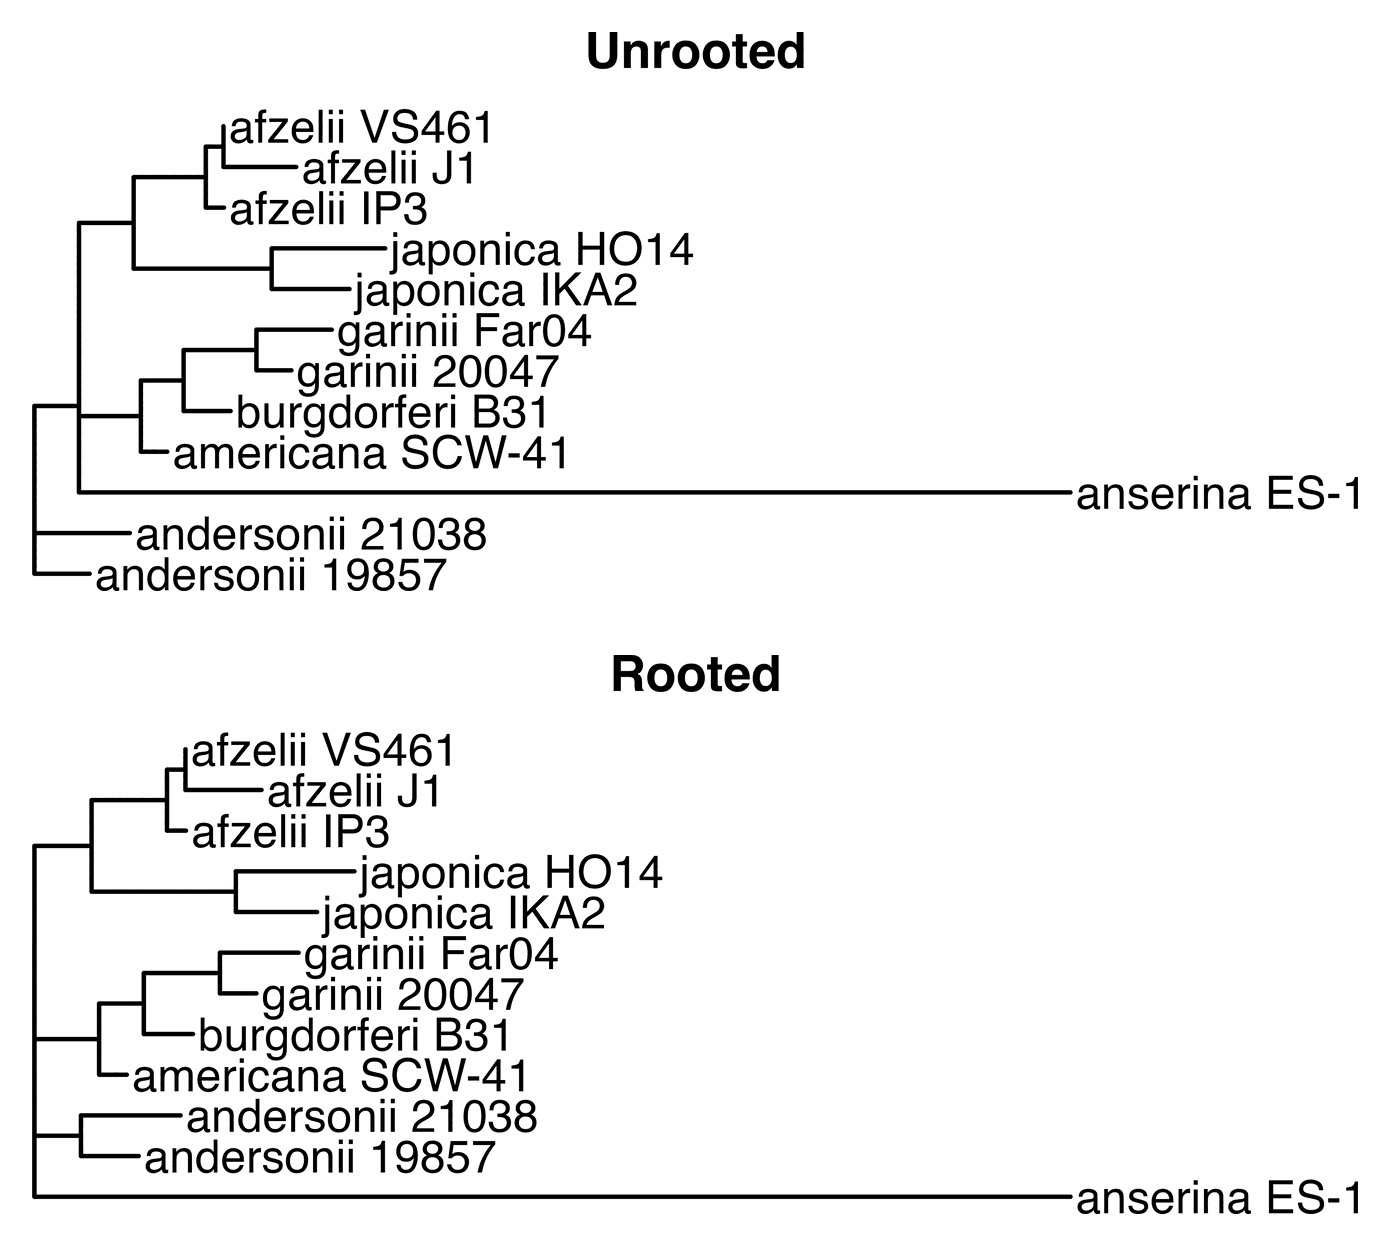
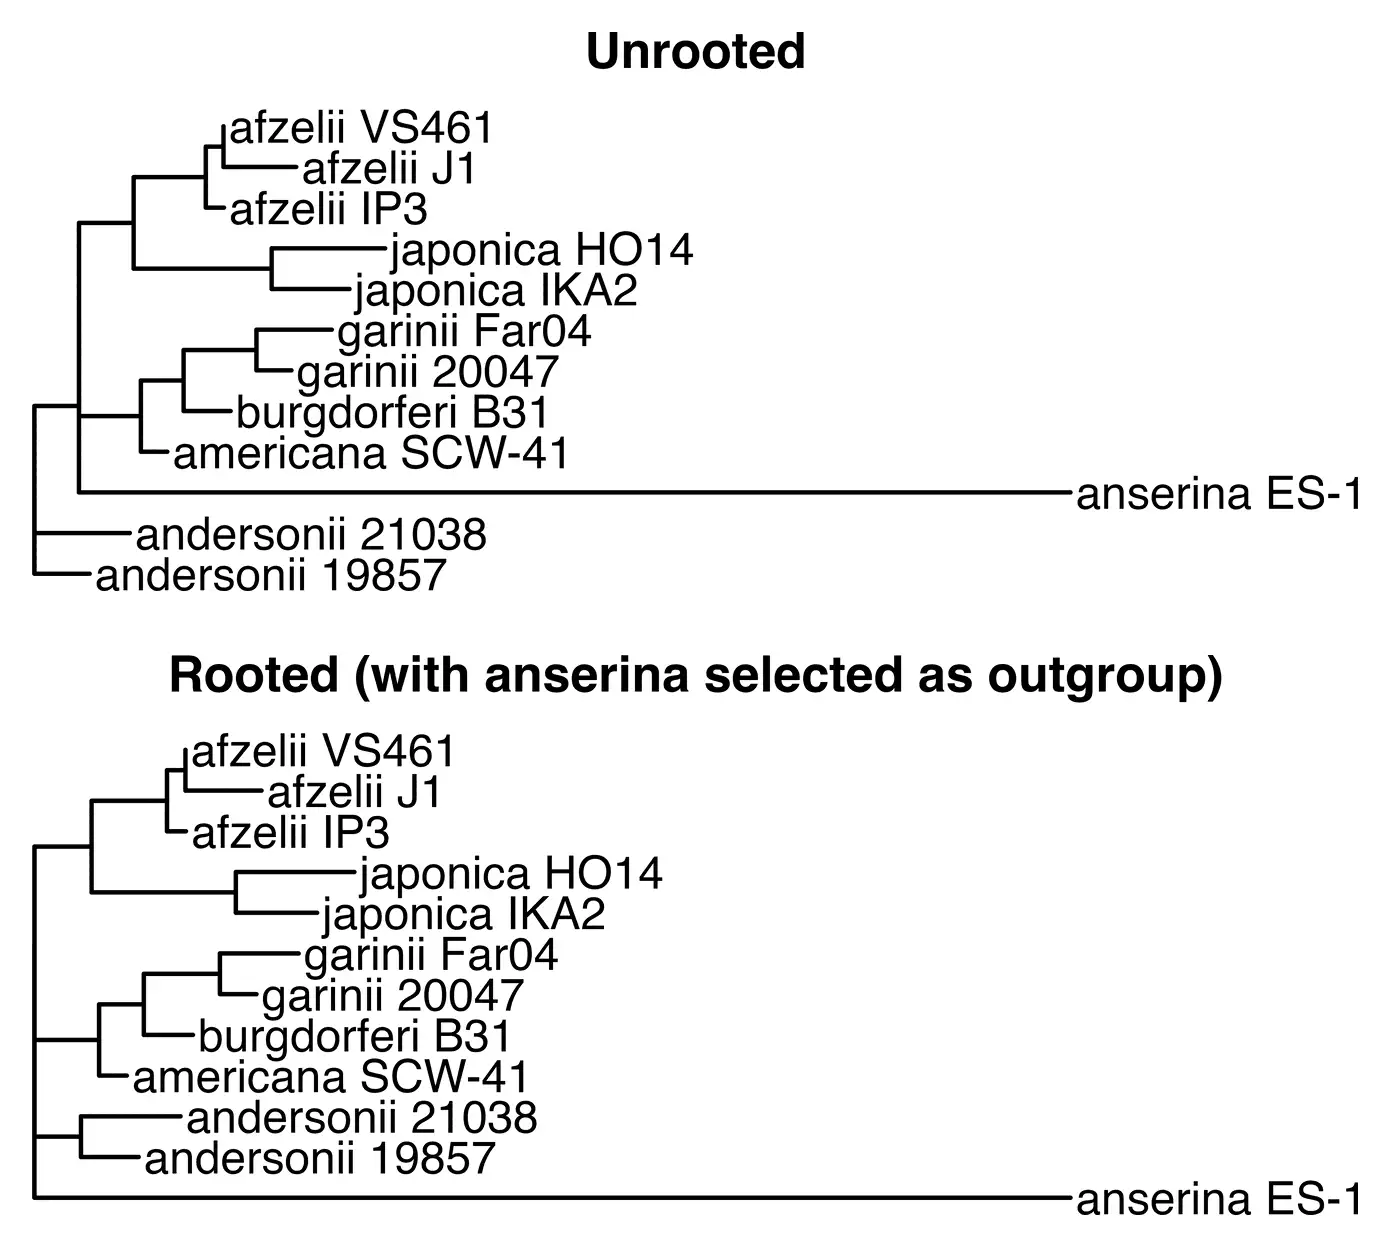
a

diff --git a/lyme2.html b/lyme2.html
@@ -110,7 +110,7 @@ other topics: <a href=lyme.html>lyme.<wbr>html</a>.</p>
 <li><a href="#Standard_Form_86">Standard Form 86</a></li>
 <li><a href="#B_T_Simms">B. T. Simms</a></li>
 <li><a href="#Meaning_of_supervisory_bacteriologist">Meaning of supervisory bacteriologist</a></li>
-<li><a href="#Mike_Carrolls_anonymous_eyewitness">Mike Carroll&#39;s anonymous eyewitness</a></li>
+<li><a href="#Mike_Carrolls_anonymous_source">Mike Carroll&#39;s anonymous source</a></li>
 <li><a href="#Research_of_tick_borne_pathogens_in_livestock_at_Plum_Island">Research of tick-borne pathogens in livestock at Plum Island</a></li>
 <li><a href="#Finnegans_question_to_Grok">Finnegan&#39;s question to Grok</a></li>
 </ul>
@@ -2424,9 +2424,9 @@ just so you could attend the opening ceremony of PIADC, so Traub
 probably wouldn't have taken the trip unless he had some other business
 to take care of in America apart from simply attending the ceremony.</p>
 <p>Traub does in reality seem to have traveled to the US to attend a
-virology symposium in 1958. The book about the symposium is available at
-Anna's Archive, and it describes conversation between Traub and other
-people who attended the symposium. <span
+virology conference in 1958. The book about the conference is available
+at Anna's Archive, and it describes conversation between Traub and other
+people who took part in a symposium at the conference. <span
 class="paren">[<a href=https://annas-archive.gl/search?q=%22Perspectives+in+virology%22+1959>https://<wbr>annas-<wbr>archive.<wbr>gl/<wbr>search?<wbr>q=%<wbr>22Perspectives+<wbr>in+<wbr>virology%<wbr>22+<wbr>1959</a>]</span>
 But that doesn't necessarily mean that Traub visited Plum Island on the
 same trip. So far I have not found good evidence that Traub ever visited
@@ -2592,8 +2592,8 @@ class="paren">[<a href=https://journals.asm.org/doi/pdf/10.1128/jcm.33.9.2427-24
 </div>
 <p><span class="paren">(The double slash symbol in the branch for
 <em class=quote>anserina</em> means that the true length of the branch is not
-displayed, because it would've taken about three times as much space as
-the whole width of the figure.)</span></p>
+displayed, because the branch would've taken about three times as much
+space as the whole width of the figure.)</span></p>
 <p>If you want to turn an unrooted tree to a rooted tree, you have to
 pick some node as an outgroup. Then the earliest branch in the tree will
 be formed between the outgroup and other nodes. It's typical for the
@@ -2605,9 +2605,13 @@ with 11 nodes from the RF group and one node from the LB group, the
 authors could've similarly selected the node from the LB group as the
 outgroup, but that doesn't mean that the authors would've suggested that
 the RF group was descended from the LB group.</p>
-<p>Below the unrooted tree looks weird because it looks like the deepest
-split is between <em class=quote>andersonii</em> and the other species, but it makes
-more sense to pick <em class=quote>anserina</em> as the outgroup:</p>
+<p>If you don't know how to interpret an unrooted tree, and you don't
+know that the deepest split is undefined in an unrooted tree, then from
+the unrooted tree below, it might intuitively appear like the deepest
+split is between <em class=quote>andersonii</em> and the other species. But in the
+rooted tree where <em class=quote>anserina</em> is the outgroup, the deepest split
+is now defined, and now the first branch in the tree is intuitively
+between <em class=quote>anserina</em> and the LB cluster:</p>
 <div>
 <img src=i/lyme-marconi-rooted.webp width=460>
 </div>
@@ -2766,10 +2770,10 @@ started to work at Plum Island in 1953 or 1952, even though he wrote
 that Traub <span class="quote">"was back and forth between Colombia in
 South America and Plum Island, NY, from 1949-1952,<span
 class="paren">[30]</span> loosely in parallel with the bird migration
-patterns"</span>, where he cited Traub's JIOA file. And in <em class=quote>Sleeper
-Agent</em> Finnegan wrote that Traub had already supervised <span
-class="quote">"simulant tests around Plum Island"</span> around
-September 1951.</p>
+patterns"</span> <span class="paren">(where he cited Traub's JIOA
+file)</span>. And in <em class=quote>Sleeper Agent</em> Finnegan wrote that Traub
+had already supervised <span class="quote">"simulant tests around Plum
+Island"</span> around September 1951.</p>
 <p>Finnegan also posted the image below and wrote: <span
 class="quote">"In one of his applications to return to America in 1958
 to attend a conference on virology - long after he had been sent back to
@@ -2945,7 +2949,7 @@ class="paren">[<a href=https://archive.org/details/RichardCharlesHolbrooke/page/
 <p>The title of Standard Form 86 was <span class="quote">"Security
 Investigation Data for Sensitive Position"</span>, which doesn't seem
 like the type of form that would be required for traveling to the US to
-attend a virology symposium, but rather for applying for a new job
+attend a virology conference, but rather for applying for a new job
 position.</p>
 <p>Grok said:</p>
 <blockquote class=quote>
@@ -2984,7 +2988,19 @@ class="quote">'APPL'</span> in the space for Date of Appointment and
 show information about the proposed appointment in the other spaces for
 appointment data."</span> In Traub's form the date field was empty, so
 it wasn't clear if the form referred to his past or current or future
-employment.</p>
+employment, even though under <span class="quote">"type of
+appointment"</span> in the form, the box <span
+class="quote">"expected"</span> was checked, which makes it look like
+the form referred to future employment. So in case the form is actually
+real, it might be that Traub briefly did some work at Plum Island while
+he visited the US in 1958, so he needed to fill the form because of it.
+But then again it would be weird that his job title would've been <span
+class="quote">"Chief Scientist <span class="paren">(Virology and
+Bacteriology)</span>"</span>, and for some brief work he did while he
+visited the US, he probably wouldn't have even been appointed as an
+employee at USDA, unless an employment position was somehow required for
+a security clearance. So I would like to see the full form, or
+preferably the full FBI file the form was part of.</p>
 <h3>
 <a href="#B_T_Simms" id="B_T_Simms">B.<wbr> T.<wbr> Simms</a>
 </h3>
@@ -3036,15 +3052,15 @@ chemtrail experiments? I think a supervisory bacteriologist just means
 something like a senior bacteriologist, or a bacteriologist in a
 supervisory role.</p>
 <p>I also found a job listing for the title of <span
-class="quote">"Supervisory Bacteriologist"</span> from 1965, where <span
-class="quote">"A young male graduate bacteriologist experienced in
-sterilization techniques is required for a responsible production
-supervisory position in a well known Montreal pharmaceutical
+class="quote">"Supervisory Bacteriologist"</span> from 1965, which said
+that <span class="quote">"A young male graduate bacteriologist
+experienced in sterilization techniques is required for a responsible
+production supervisory position in a well known Montreal pharmaceutical
 plant."</span> <span
 class="paren">[<a href=https://www.newspapers.com/article/the-montreal-star/194500366/>https://<wbr>www.<wbr>newspapers.<wbr>com/<wbr>article/<wbr>the-<wbr>montreal-<wbr>star/<wbr>194500366/<wbr></a>]</span></p>
 <h3>
-<a href="#Mike_Carrolls_anonymous_eyewitness" id="Mike_Carrolls_anonymous_eyewitness">Mike
-Carroll's anonymous eyewitness</a>
+<a href="#Mike_Carrolls_anonymous_source" id="Mike_Carrolls_anonymous_source">Mike
+Carroll's anonymous source</a>
 </h3>
 <p>Finnegan wrote:</p>
 <blockquote class=quote>
@@ -3064,14 +3080,23 @@ class="paren">[29]</span></p>
 <p>I would've written that Carroll <span class="quote">"claims"</span>
 instead of Carroll <span class="quote">"shows"</span>, because he might
 have just made up the story.</p>
-<p>The <span class="quote">"Nazi scientist"</span> the anonymous source
-referred to was not necessarily Traub. Finnegan claimed that the person
-in the picture was Traub, but the anonymous source said the person in
-the picture was <span class="quote">"the animal handler"</span>, who was
-probably not the same person as the Nazi scientist, because Carroll
-wrote that <span class="quote">"animal handlers and a scientist released
-ticks"</span>, which seems to imply there was a single scientist and two
-or more animal handlers.</p>
+<p>Finnegan said that Carroll was talking about simulant tests, even
+though Carroll didn't say that his anonymous source was talking about
+simulant tests. And in fact two pages earlier Carroll quoted John Loftus
+as writing that <span class="quote">"I received some information
+suggesting that the US tested some of these poison ticks on the Plum
+Island artillery range off the coast of Connecticut during the early
+1950s"</span> and that <span class="quote">"I explored the old spies'
+hypothesis that the poison ticks were the source of the Lyme disease
+spirochete"</span>. So Carroll gave the impression his anonymous source
+was talking about the same event as Loftus.</p>
+<p>Finnegan also claimed that the person in the picture was Traub, but
+the anonymous source said the person in the picture was <span
+class="quote">"the animal handler"</span>, who was probably not the same
+person as the Nazi scientist, because Carroll wrote that <span
+class="quote">"animal handlers and a scientist released ticks"</span>,
+which seems to imply there was a single scientist and two or more animal
+handlers.</p>
 <p>I haven't found any named person who worked at Plum Island or USDA
 saying that Traub visited Plum Island, or that they saw Traub at Plum
 Island. In 2004 when the <em class=quote>New York Times</em> interviewed Sandy
@@ -3086,22 +3111,48 @@ class="quote">'that's right,'</span>"</span> she said.</p>
 <p>Sandy Miller Hays didn't personally work on site at Plum Island, but
 she acted the long-time public face of ARS on issues including Plum
 Island, so if Traub would've actually worked at Plum Island, she might
-have heard about it from current or former staff members of Plum Island.
-<span class="paren">(Even though on the other hand USDA scientists may
-have started to work at Plum Island only after Traub had already left
-the United States, so if Traub worked at Plum Island in some kind of a
-secret capacity before the USDA lab was established, then USDA staff
-might not have heard about it.)</span></p>
-<p>It's also telling that even though Mike Carroll did extensive
-archival research concerning Plum Island, and he cited many pieces of
-correspondence between people who worked at USDA or Plum Island in the
-1950s, and he interviewed many people connected to Plum Island, he wrote
+have heard about him from current or former staff members of Plum
+Island. <span class="paren">(Even though on the other hand USDA
+scientists may have started to work at Plum Island only after Traub had
+left the United States, so if Traub worked at Plum Island in some kind
+of a secret capacity before USDA moved in to Plum Island, then USDA
+staff might not have heard about Traub's work.)</span></p>
+<p>It's also telling that Mike Carroll did extensive archival research
+concerning Plum Island, and he cited many pieces of correspondence from
+people who worked at USDA or Plum Island in the 1950s, and he
+interviewed many people connected to Plum Island, but he still wrote
 that the three confirmed occasions when Traub visited Plum Island all
 took place after Traub had already moved out of the United States.</p>
 <p>Carroll himself doesn't seem to have treated the episode of ticks
 being released as a confirmed instance of Traub visiting Plum Island,
 because he didn't include it on his list of three confirmed occasions
 when Traub could be physically placed on Plum Island.</p>
+<p>It's not clear if the experiment of releasing ticks in 1951 is
+supposed to have seeded the Lyme disease outbreak, or if it was
+something like a simulant test like Finnegan says. In his book Finnegan
+wrote that Traub returned from Colombia to the US in early September
+1951, <span class="quote">"just in time to supervise simulant tests
+around Plum Island as a supervisory bacteriologist and virologist for
+the Navy, simultaneously an employee of the USDA and FAO"</span>. But
+elsewhere Finnegan wrote that Donald Maclean may have already seeded the
+Lyme outbreak during his stay in the United States in 1944-1948 when he
+<span class="quote">"is said to have been directing Plum Island
+tests"</span>.</p>
+<p>According to a history of Plum Island, the US Army Chemical Corps
+<span class="quote">"had been planning an animal research laboratory on
+Plum Island since 1951"</span>, which may have been even before the
+experiment of releasing the ticks supposedly took place in 1951. <span
+class="paren">[<a href=https://web.archive.org/web/20051103165628/https://usaha.org/news/newsletter/USAHA-Newsletter-Oct2003.pdf>https://<wbr>web.<wbr>archive.<wbr>org/<wbr>web/<wbr>20051103165628/<wbr>https://<wbr>usaha.<wbr>org/<wbr>news/<wbr>newsletter/<wbr>USAHA-<wbr>Newsletter-<wbr>Oct2003.<wbr>pdf</a>]</span></p>
+<p>What would be the point of releasing the ticks at a location where a
+biological research facility was planned to be built in the future?
+Wasn't there a worry that the staff of the facility might get sick in
+the future?</p>
+<p>The earlier plan to build the laboratory on Prudence Island was
+killed by opposition by the local population, and the Plum Island plan
+was not popular either. So wasn't there a worry that the local
+population would've opposed the lab project if they found out that a
+dangerous new disease had been deliberately released near their home as
+part of a project connected to the laboratory?</p>
 <h3>
 <a href="#Research_of_tick_borne_pathogens_in_livestock_at_Plum_Island" id="Research_of_tick_borne_pathogens_in_livestock_at_Plum_Island">Research
 of tick-borne pathogens in livestock at Plum Island</a>
@@ -3135,11 +3186,11 @@ myself.</p>
 ruminantium</em>)</span> and East Coast fever <span
 class="paren">(caused by <em class=quote>Theileria parva</em>)</span> are both
 diseases that affect cattle and that are associated with major economic
-losses in countries where they are endemic. Their study fits within Plum
-Island's mandate to study <span class="quote">"foot-and-mouth disease
-and other animal diseases which in the opinion of the Secretary
-constitute a threat to the livestock industry of the United
-States"</span>. <span
+loss in countries where they are endemic. So research of heartwater and
+East Coast fever fits within Plum Island's mandate to study <span
+class="quote">"foot-and-mouth disease and other animal diseases which in
+the opinion of the Secretary constitute a threat to the livestock
+industry of the United States"</span>. <span
 class="paren">[<a href=https://www.law.cornell.edu/uscode/text/21/113a>https://<wbr>www.<wbr>law.<wbr>cornell.<wbr>edu/<wbr>uscode/<wbr>text/<wbr>21/<wbr>113a</a>]</span>
 Leptospirosis also affects humans, but the paper Finnegan referred to
 was about leptospirosis in cattle.</p>
@@ -3169,7 +3220,7 @@ production and chronic weight loss. <span
 class="paren">[<a href=https://pmc.ncbi.nlm.nih.gov/articles/PMC9146932/>https://<wbr>pmc.<wbr>ncbi.<wbr>nlm.<wbr>nih.<wbr>gov/<wbr>articles/<wbr>PMC9146932/<wbr></a>]</span></p>
 <p>Another reason why Lyme disease was not studied at Plum Island may be
 that <em class=quote>Borrelia burgdorferi</em> is not recognized as a pathogen with
-high potential to be employed as a bioweapon against livestock.</p>
+potential to be employed as a bioweapon against livestock.</p>
 <h3>
 <a href="#Finnegans_question_to_Grok" id="Finnegans_question_to_Grok">Finnegan's
 question to Grok</a>
